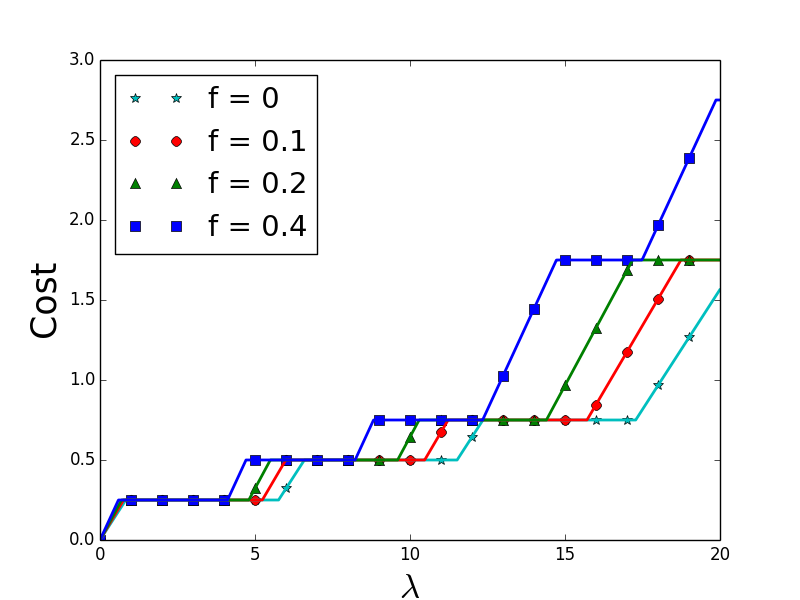
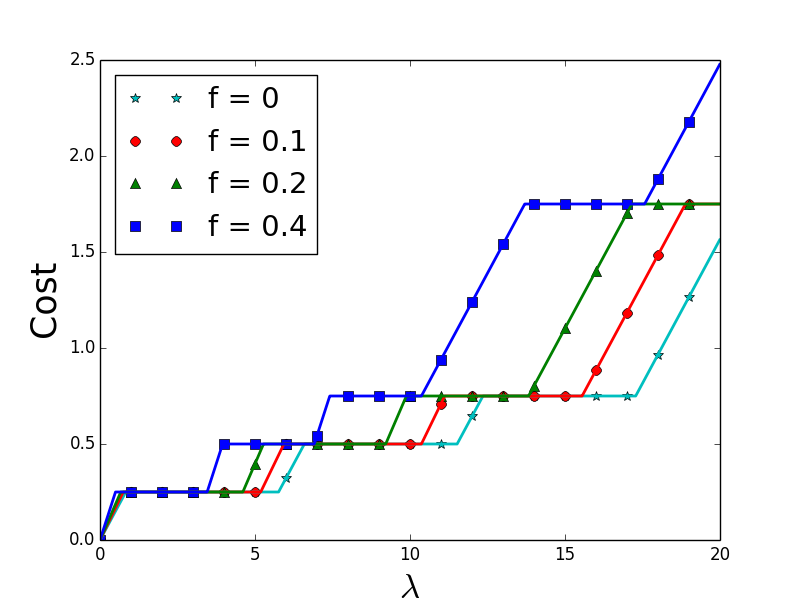
Made the extra load dependent on the failure rate

diff --git a/scripts/generate_plots_mg1_spot.py b/scripts/generate_plots_mg1_spot.py
@@ -174,7 +174,7 @@ def AO_vary_failure_rate():
 	
 		for val_lambda in lambdas:
 			cost = 0
-			val_lambda += val_lambda*fail_rate
+			val_lambda = calculate_lambda(val_lambda, fail_rate, mu_spot, mu_v, N_SPOT, beta)
 			if val_lambda > prev_transition_point:		# spot instances are all USED UP. Start using on-demand VMs
 				val_lambda -= prev_transition_point
 				if L_v <= L_sl_v:						# Case 1: spot service capacity is lower than transition point from Serverless to Spot
@@ -337,13 +337,23 @@ def OO_vary_price_ratio_no_fail():
 	plt.xlabel(r'$\lambda$', fontsize=25)
 	plt.savefig(filename)
 
+def calculate_lambda(arrival_lambda, fail_rate, mu_spot, mu_v, N_SPOT, beta):
+	new_lambda_only_spots = arrival_lambda/(1-fail_rate)
+	num_spot_required = new_lambda_only_spots/(beta*mu_spot)
+	if num_spot_required <= N_SPOT:
+		return new_lambda_only_spots
+	else:
+		load_on_spots = N_SPOT * beta * mu_spot
+		additional_load_from_spots = load_on_spots * fail_rate
+		return additional_load_from_spots + arrival_lambda
+	
 # OO, failure rate for spot instances
 def OO_vary_failure_rate():
 	max_lambda = 19
-	lambdas = [.01*x for x in range(0,((max_lambda+1)*100))]
+	lambdas = [.01*x for x in range(1,((max_lambda+1)*100))]
 
 	# Number of spot VMs:
-	N_SPOT = 3
+	N_SPOT = 10
 	# Max capacity of VM allowed:
 	beta = 0.9 		
 	# startup delay
@@ -356,7 +366,7 @@ def OO_vary_failure_rate():
 	alpha_sl = 2.5*alpha_v	
 
 	# Failure rate
-	failure_rates = [0,0.1,0.2,0.4]
+	failure_rates = [0.1,0.2,0.4,0.8]
 
 	# Service rates
 	mu_v = 8.0
@@ -392,7 +402,9 @@ def OO_vary_failure_rate():
 		
 		for val_lambda in lambdas:
  			cost = 0
- 			val_lambda += val_lambda*fail_rate
+ 			# val_lambda += val_lambda*fail_rate
+ 			val_lambda = calculate_lambda(val_lambda, fail_rate, mu_spot, mu_v, N_SPOT, beta)
+ 			
 			if val_lambda > prev_transition_point:		# spot instances are all USED UP. Start using on-demand VMs
 				val_lambda -= prev_transition_point
 				if L_v <= L_sl_v:						# Case 1: spot service capacity is lower than transition point from Serverless to Spot
@@ -448,8 +460,9 @@ def OO_vary_failure_rate():
 	plt.xlabel(r'$\lambda$', fontsize=25)
 	plt.savefig(filename)
 
+
 def main():
-	if len(sys.argv) != 2:
+	if len(sys.argv) < 2:
 		print "USAGE: python generate_plots_mg1_spot.py <exp_type>"
 		print "<exp_type> : AO_vary_price_ratio_no_fail/AO_vary_failure_rate"
 		print "<exp_type> : OO_vary_price_ratio_no_fail/OO_vary_failure_rate"
@@ -462,7 +475,7 @@ def main():
 	elif exp_type == 'OO_vary_price_ratio_no_fail':
 		OO_vary_price_ratio_no_fail()
 	elif exp_type == 'OO_vary_failure_rate':
-		OO_vary_failure_rate()
+		OO_vary_failure_rate() 
 	else:
 		print "Wrong <exp_type>"
 		print "<exp_type> : AO_vary_price_ratio_no_fail/AO_vary_failure_rate"
